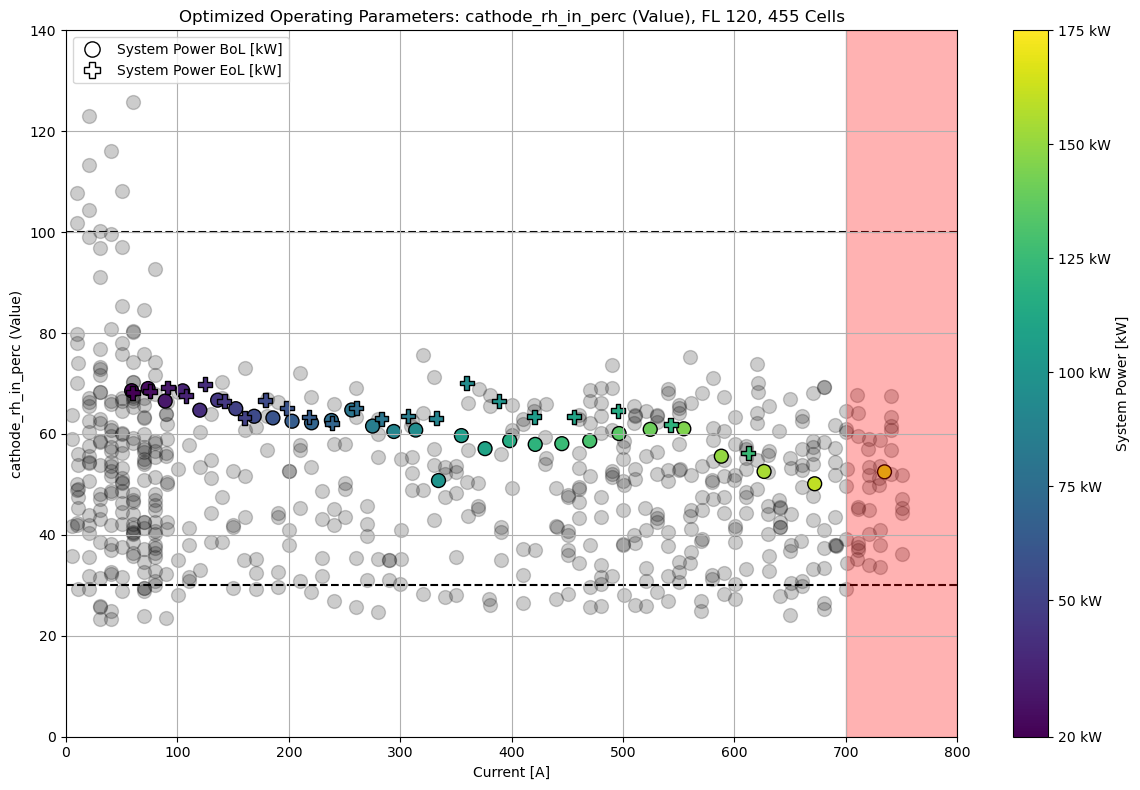
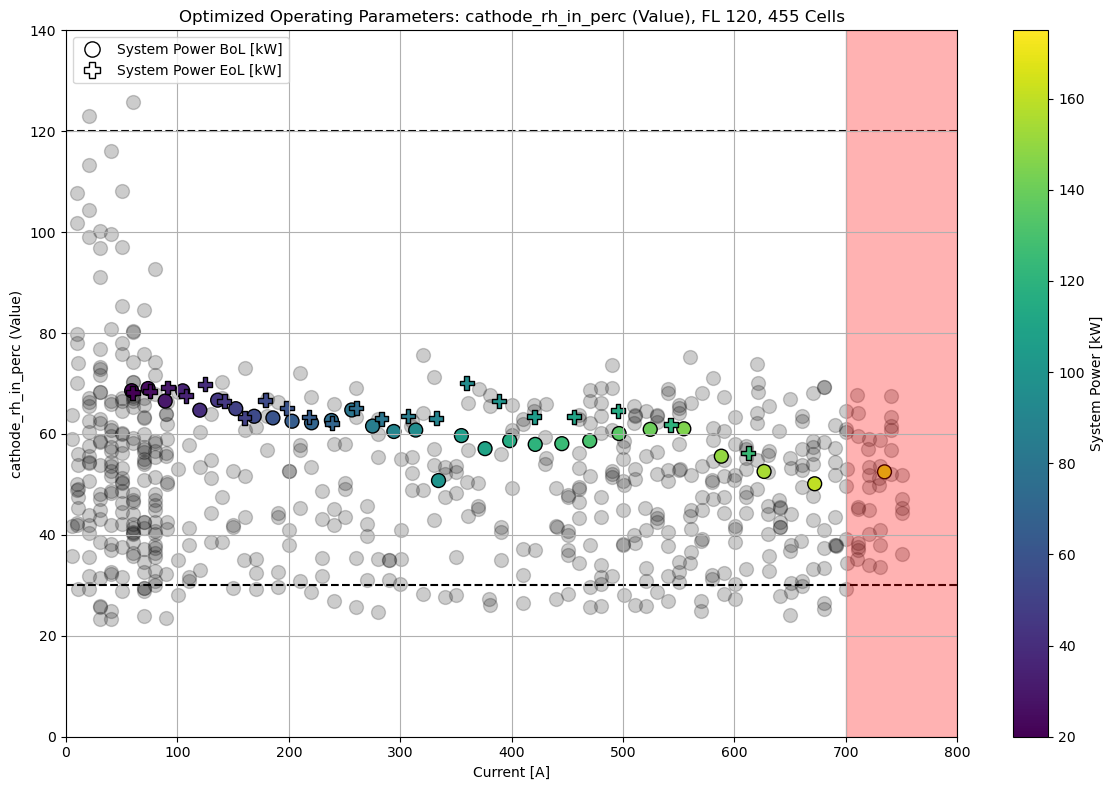
fix: change flight level to 120 avoid the bug

diff --git a/05_overall/05_fcs_dimensioning_model/Postprocessing/get_plots.py b/05_overall/05_fcs_dimensioning_model/Postprocessing/get_plots.py
@@ -97,7 +97,7 @@ def analyze_data(_file_path1, saving=True):
     markers= ["o", "v", "s"]
     markers_oL = ["o","P"]
     
-    fl_set = 100 #TODO: Pass that as an argument to the function
+    fl_set = 120 #TODO: Pass that as an argument to the function
     fl_max = max(df1["Flight Level (100x ft)"])
     weighting=0
     show_plot=True
@@ -287,7 +287,7 @@ def analyze_data(_file_path1, saving=True):
 
 if __name__ == "__main__":
     parser = argparse.ArgumentParser(description="Main script to call get_plots.py")
-    parser.add_argument("-f", "--filepath", type=str, help="path to csv file", default=r"F:\GIT\H175\05_overall\05_fcs_dimensioning_model\consolidated_100-150kW_400-500_100-100ft__1\optimized_parameters_100-150kW_400-500_100-100ft.csv")
+    parser.add_argument("-f", "--filepath", type=str, help="path to csv file", default=r"test_data\optimized_parameters_20-175kW_400-500_0-120ft 1.csv")
 
     parser.add_argument("-s", "--saving", type=str, choices=["True", "False"], default="True", help="Whether to save plots as .png files")
     args = parser.parse_args()

diff --git a/05_overall/05_fcs_dimensioning_model/Postprocessing/plot_system_mass_estimate.py b/05_overall/05_fcs_dimensioning_model/Postprocessing/plot_system_mass_estimate.py
@@ -99,7 +99,7 @@ def plot_system_mass_estimate(plot_params, data, titles, colors, components_dict
     for df, title, color, m_stack_value, marker in zip(data, titles, colors, m_stack_values, markers):
         # Filter the df for eol, bol and flight level
         df = df[(df["eol (t/f)"] == filter_mode) & 
-                (df["Flight Level (100x ft)"] == 100) &
+                (df["Flight Level (100x ft)"] == 120) &
                 (df["weighting ([0,1])"] == weighting)]
         
         # Extract all power points from the filtered DataFrame
